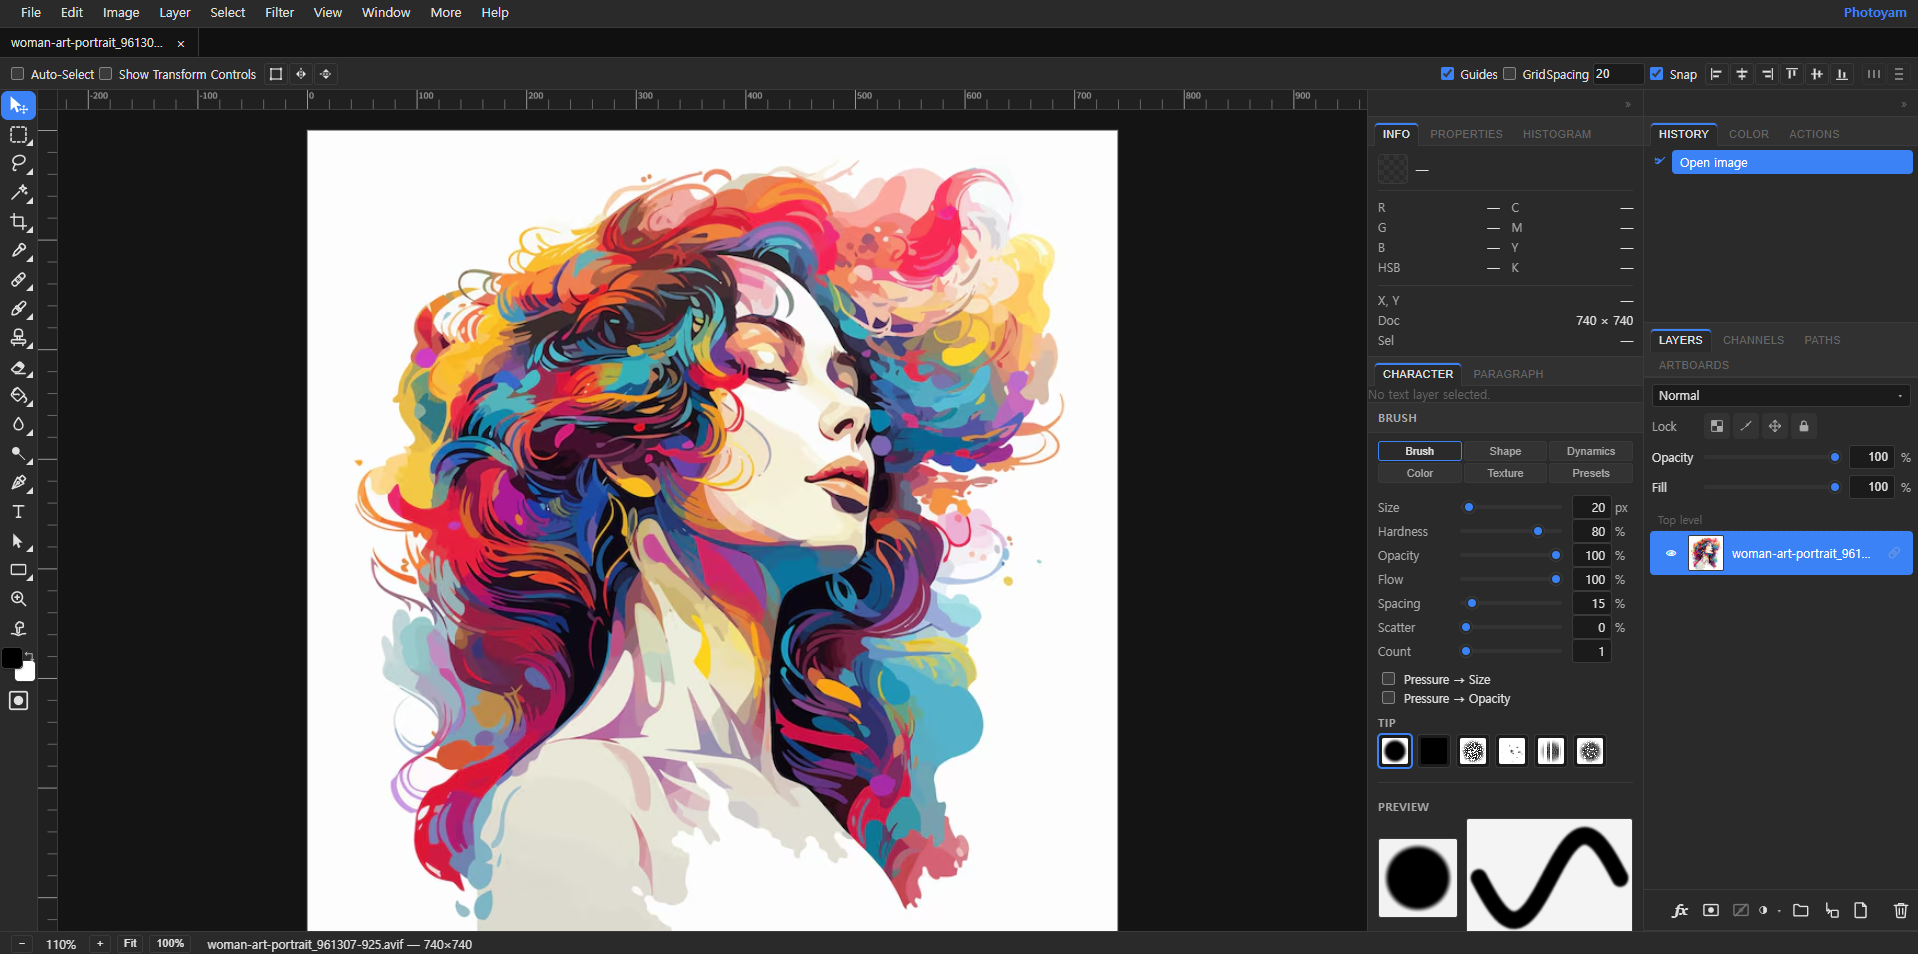
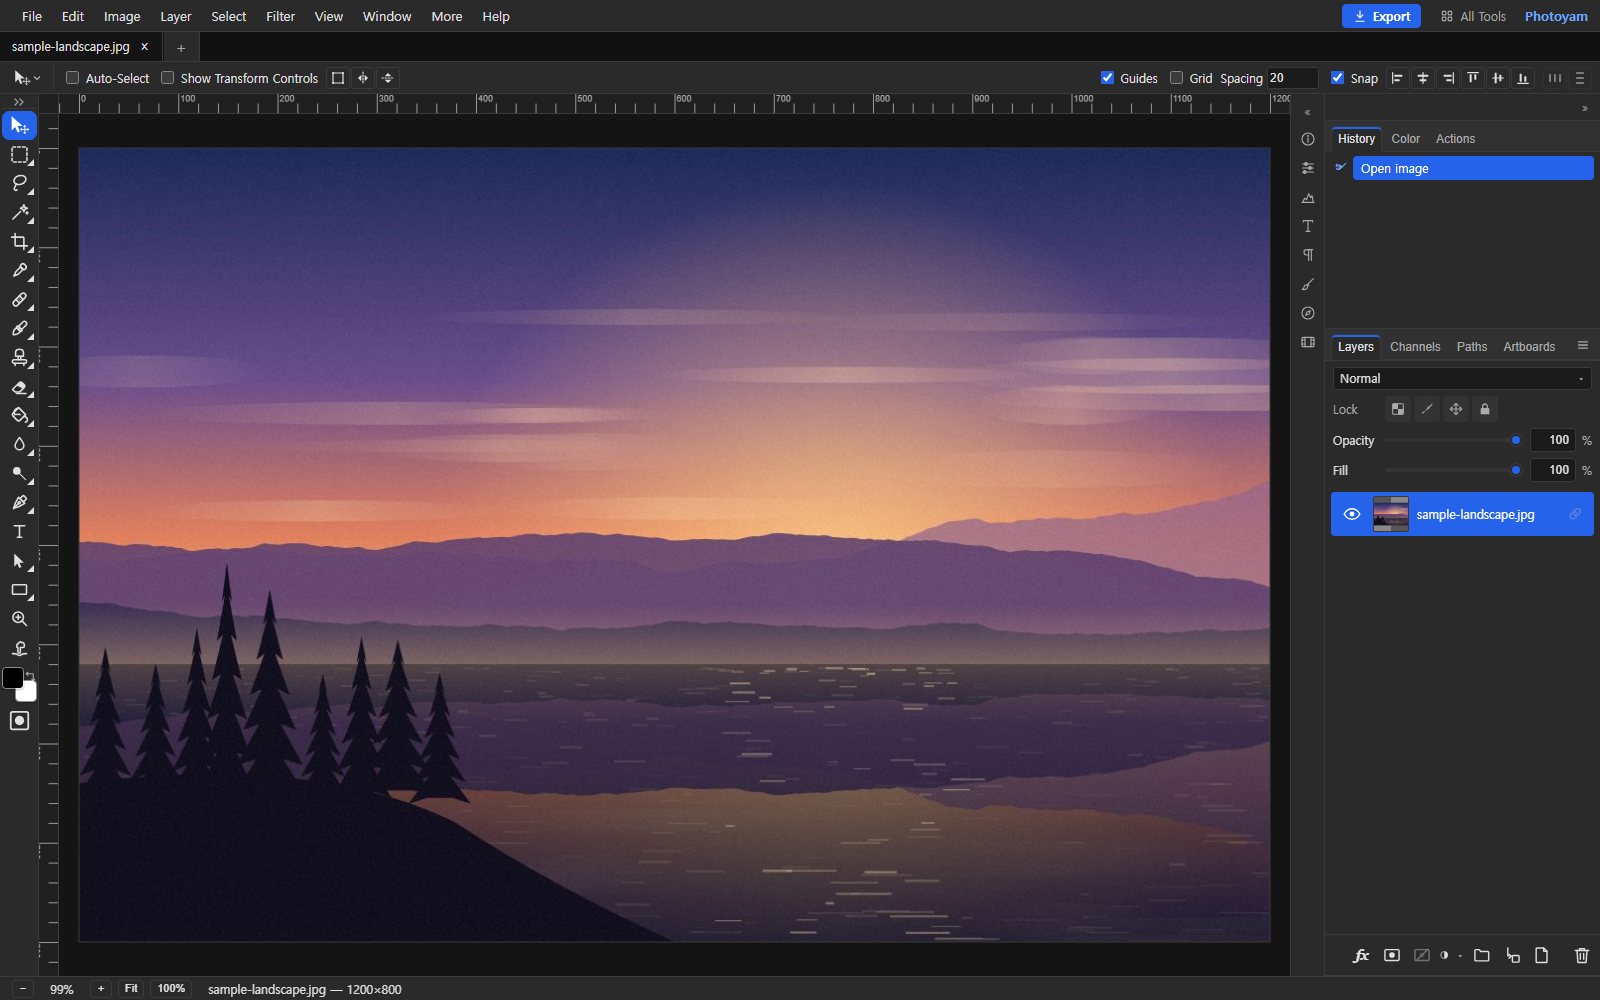
Refresh README and screenshot for the current app

diff --git a/README.md b/README.md
@@ -6,108 +6,115 @@ No account. No upload. No install. Just open a URL and start editing.
 ### 👉 **[Open Photoyam → photoyam.com](https://photoyam.com)**
 ### 💬 **[Join the Discussions](https://github.com/photoyam/community/discussions)** — bugs, ideas, questions, and show-and-tell
 
-![Photoyam editing a colorful portrait entirely in the browser](https://raw.githubusercontent.com/photoyam/community/main/screenshot.png)
+![The Photoyam editor in a browser: a landscape photo open with the layers, history and color panels](https://raw.githubusercontent.com/photoyam/community/main/screenshot.png)
 
 ---
 
 ## 🔒 Your images never leave your device
 
 This is the part we care about most: **Photoyam has no backend.** There is no
-server that receives, processes, or stores your images. Everything — opening a
-photo, every brush stroke, every filter, exporting the result — happens **locally
-inside your own browser tab**.
+server that receives, processes, or stores your images. Opening a photo, every
+brush stroke, every filter and the final export all happen **inside your own
+browser tab**.
 
 - **Nothing is uploaded.** Your photos are read straight from your disk into the
-  browser and never sent anywhere.
-- **No account, no tracking of your content.** You don't sign in, and there's
-  nowhere for your work to be collected.
-- **No server round-trips while you edit.** Once the page has loaded, editing
-  needs no network at all — filters, brushes, and exports all run on your own
-  device. (Even AI background removal runs in your browser.)
-- **You keep the files.** Save a `.psy` project or export to PSD/PNG/JPG/etc.
-  directly to your device.
-- **Even work-in-progress stays local.** As you edit, Photoyam auto-saves your
-  session to your browser's own on-device storage (IndexedDB) so an accidental
-  tab close, refresh, or crash can be recovered next time you open the app. This
-  recovery data **also never leaves your device** — it's read straight from your
-  browser, not from any server. It's a single most-recent snapshot that's
-  overwritten as you work and removed once you restore or discard it (and it's
-  gone entirely if you clear the site's browser data). So if you close without
-  exporting, your unsaved image isn't sitting on someone's server — at most it's
-  a recovery snapshot in your own browser, under your control.
+  browser and never sent anywhere — and that includes the AI background remover,
+  whose model runs on your device.
+- **No account.** You don't sign in, and there is nowhere for your work to be
+  collected.
+- **You keep the files.** Press **Export** (top right) to download a JPG, PNG,
+  WebP, PSD or `.psy` project — or **Share** it straight to Photos on a phone.
+- **Unsaved work is protected, locally.** Every couple of minutes, and whenever
+  you switch away from the tab, Photoyam keeps a recovery copy of your open
+  documents in your browser's own storage. If the tab closes or crashes, the
+  start screen offers **Recover unsaved work** next time. Recovery copies are
+  removed when you save or export, can be turned off in *Edit ▸ Preferences ▸
+  File Handling*, and never leave your device.
 
-If privacy or confidentiality matters to you — client work, personal photos,
-sensitive documents — Photoyam is safe by design: there's simply no server for
-your data to end up on.
+If privacy matters to you — client work, personal photos, sensitive documents —
+Photoyam is safe by design: there's simply no server for your data to end up on.
+The details are in the [privacy policy](https://photoyam.com/privacy).
 
 ---
 
 ## ✨ What Photoyam can do
 
-**A real editor, not a toy.** It brings desktop-class editing to the browser:
+**A real editor, not a toy:**
 
-- **Layers & groups** — blend modes, opacity/fill, layer styles (stroke, shadow,
-  glow, overlays), clipping masks, and **nested groups**.
-- **Non-destructive adjustments** — levels, curves, hue/saturation, color balance,
-  exposure, channel mixer, selective color, photo filter, gradient map,
-  black & white, and more, as re-editable adjustment layers.
-- **Masks & selections** — layer masks, vector masks, alpha channels; marquee,
-  lasso (incl. magnetic), magic wand, color range, refine edge; load a layer's
-  transparency as a selection with a click.
-- **Retouching & painting** — a real brush engine with dynamics, clone stamp,
-  healing / spot healing, dodge / burn / sponge, smudge, patterns.
-- **Filters** — blurs, smart sharpen, noise, stylize, liquify, and more, with
-  **WebGL2 acceleration** and a graceful CPU fallback. Plus re-editable
-  **smart filters**.
-- **Text & vectors** — editable text layers, shape layers, and a pen tool with
-  editable bezier paths.
-- **Transforms** — scale / rotate / skew / distort / perspective / warp, crop &
-  straighten, content-aware fill.
+- **Layers & groups** — blend modes, opacity/fill, clipping masks, nested groups,
+  and **layer styles** (drop shadow, stroke, bevel & emboss, glows, satin and
+  overlays — several strokes or shadows on one layer, like Photoshop).
+- **Non-destructive adjustments** — levels, curves, hue/saturation, color
+  balance, exposure, channel mixer, selective color, gradient map, black & white
+  and more, as re-editable adjustment layers.
+- **Masks & selections** — layer and vector masks, alpha channels, marquee,
+  lasso (incl. magnetic), magic wand, quick selection, color range, select
+  subject and refine edge.
+- **Retouching & painting** — a real brush engine with dynamics and pen pressure,
+  clone stamp, healing / spot healing, content-aware fill, dodge / burn, smudge.
+- **Filters** — blurs, sharpening, noise, distortions, Camera Raw, liquify and
+  more, with GPU acceleration and **smart filters**. Long jobs can be cancelled.
+- **Text, shapes & paths** — editable text in 40+ web fonts (including Korean,
+  Japanese and Chinese), shape layers and a pen tool with bezier paths.
+- **Animation** — open and edit animated GIF / APNG / WebP frame by frame.
+- **Real PSD files** — open PSDs with their layers, and export PSDs whose layer
+  effects stay editable when you open them in Photoshop.
 
-**Handy extras built in:**
+**Quick tools that work right on their own page** — no editor needed, nothing
+uploaded, batch + ZIP download:
 
-- **🪄 AI background removal** — cut out the subject in one click. The AI model
-  runs **on your device inside the browser** — the image is never uploaded.
-- **🎨 Color Tools** — HEX/RGB/HSL/HSV/CMYK converter, palette & scheme generator,
-  **WCAG contrast checker**, CSS gradient generator, extract a palette from any
-  image, and a searchable CSS named-color chart.
-- **🔄 File Converter** — batch-convert images between **PNG / JPG / WebP / BMP /
-  TIFF / GIF / PDF / ICO / AVIF** and download them individually or as a single
-  ZIP. (Open it from the start screen or `File ▸ Convert…`.)
-- **📄 PDF tools** — turn a PDF into images or images into a PDF, and **merge,
-  split, reorder, and compress** PDFs — all in the browser, nothing uploaded.
-- **🖼 Broad format support** — open PSD, TIFF, SVG, GIF (animated), HEIC, and
-  camera-RAW previews; export PSD, PNG, JPG, WebP, TIFF, PDF, and animated GIF.
+- Convert: [HEIC to JPG](https://photoyam.com/heic-to-jpg),
+  [HEIC to PNG](https://photoyam.com/heic-to-png),
+  [WebP to PNG](https://photoyam.com/webp-to-png),
+  [PNG/JPG to WebP](https://photoyam.com/png-to-webp),
+  [AVIF to JPG](https://photoyam.com/avif-to-jpg),
+  [PNG to ICO favicon](https://photoyam.com/png-to-ico) and
+  [any format](https://photoyam.com/convert).
+- Edit: [remove background](https://photoyam.com/remove-background),
+  [resize](https://photoyam.com/resize), [crop](https://photoyam.com/crop),
+  [compress](https://photoyam.com/compress), [add text](https://photoyam.com/add-text),
+  [blur faces](https://photoyam.com/blur-image), [black & white](https://photoyam.com/grayscale),
+  [PSD viewer](https://photoyam.com/psd-viewer).
+- GIF & video: [video to GIF](https://photoyam.com/video-to-gif),
+  [GIF to MP4](https://photoyam.com/gif-to-mp4),
+  [add text to GIF](https://photoyam.com/add-text-to-gif),
+  [GIF compressor](https://photoyam.com/gif-compressor) and more.
+- PDF: [merge](https://photoyam.com/merge-pdf), [split](https://photoyam.com/split-pdf),
+  [compress](https://photoyam.com/compress-pdf), [PDF to JPG](https://photoyam.com/pdf-to-jpg),
+  [JPG to PDF](https://photoyam.com/jpg-to-pdf).
 
-Prefer a single-purpose tool? Each of these has its own quick page at
-**[photoyam.com/tools](https://photoyam.com/tools)** (convert, resize, crop,
-compress, remove background, PSD viewer, PDF tools, and more).
+Every tool is listed at **[photoyam.com/tools](https://photoyam.com/tools)**, and
+step-by-step tutorials live at **[photoyam.com/guides](https://photoyam.com/guides)**.
 
 **Made to be pleasant to use:**
 
-- **Command palette** (fuzzy search over every command) and **customizable
-  keyboard shortcuts** with a Photoshop preset.
-- **7 themes** (Dark, Light, Midnight, Graphite, High Contrast, Nord, System) and
-  saveable panel workspaces.
+- **Install it as an app** (*Help ▸ Install Photoyam…*) — it opens in its own
+  window, works offline and can open image files from your computer.
+- **Remembers your setup** — tool options per tool, colors, export settings.
+- **Command palette** and **customizable keyboard shortcuts** with a Photoshop
+  preset.
+- **Themes** and saveable panel workspaces.
 - **5 languages** — English, 한국어, 日本語, 中文, Español.
-- **Works on phones & tablets** — a responsive layout with touch gestures
-  (pinch-to-zoom, two-finger pan).
-- **Autosave & crash recovery** so you don't lose work.
-- **Ctrl/Cmd+S saves a real PSD** — with a heads-up before anything is flattened.
+- **Works on phones & tablets** — touch-friendly options bar, pinch-to-zoom,
+  two-finger pan.
 
 ---
 
 ## 💬 Give feedback here
 
 We'd love to hear from you in the
-**[Discussions](https://github.com/photoyam/community/discussions)** tab:
+**[Discussions](https://github.com/photoyam/community/discussions)** tab — or
+use *Help ▸ Report a Problem…* inside the editor, which fills in the technical
+details for you (never your images or file names).
 
 | Category | Use it for |
 |---|---|
-| 🐞 **Bugs / Q&A** | Something broke? Tell us what you did, what you expected, your browser + OS, and a screenshot. |
+| 🙋 **Q&A** | Something broke, or you're stuck? Tell us what you did, what you expected, your browser + OS, and add a screenshot. |
 | 💡 **Ideas** | Request a feature — and upvote (👍) the ones you want most. |
-| 🙋 **Q&A** | Ask how to do something; answers get marked as solutions. |
+| 💬 **General** | Anything else about Photoyam. |
 | 🖼 **Show and tell** | Share what you made with Photoyam! |
+
+Prefer email? Write to **contact@photoyam.com**.
 
 ---
 
